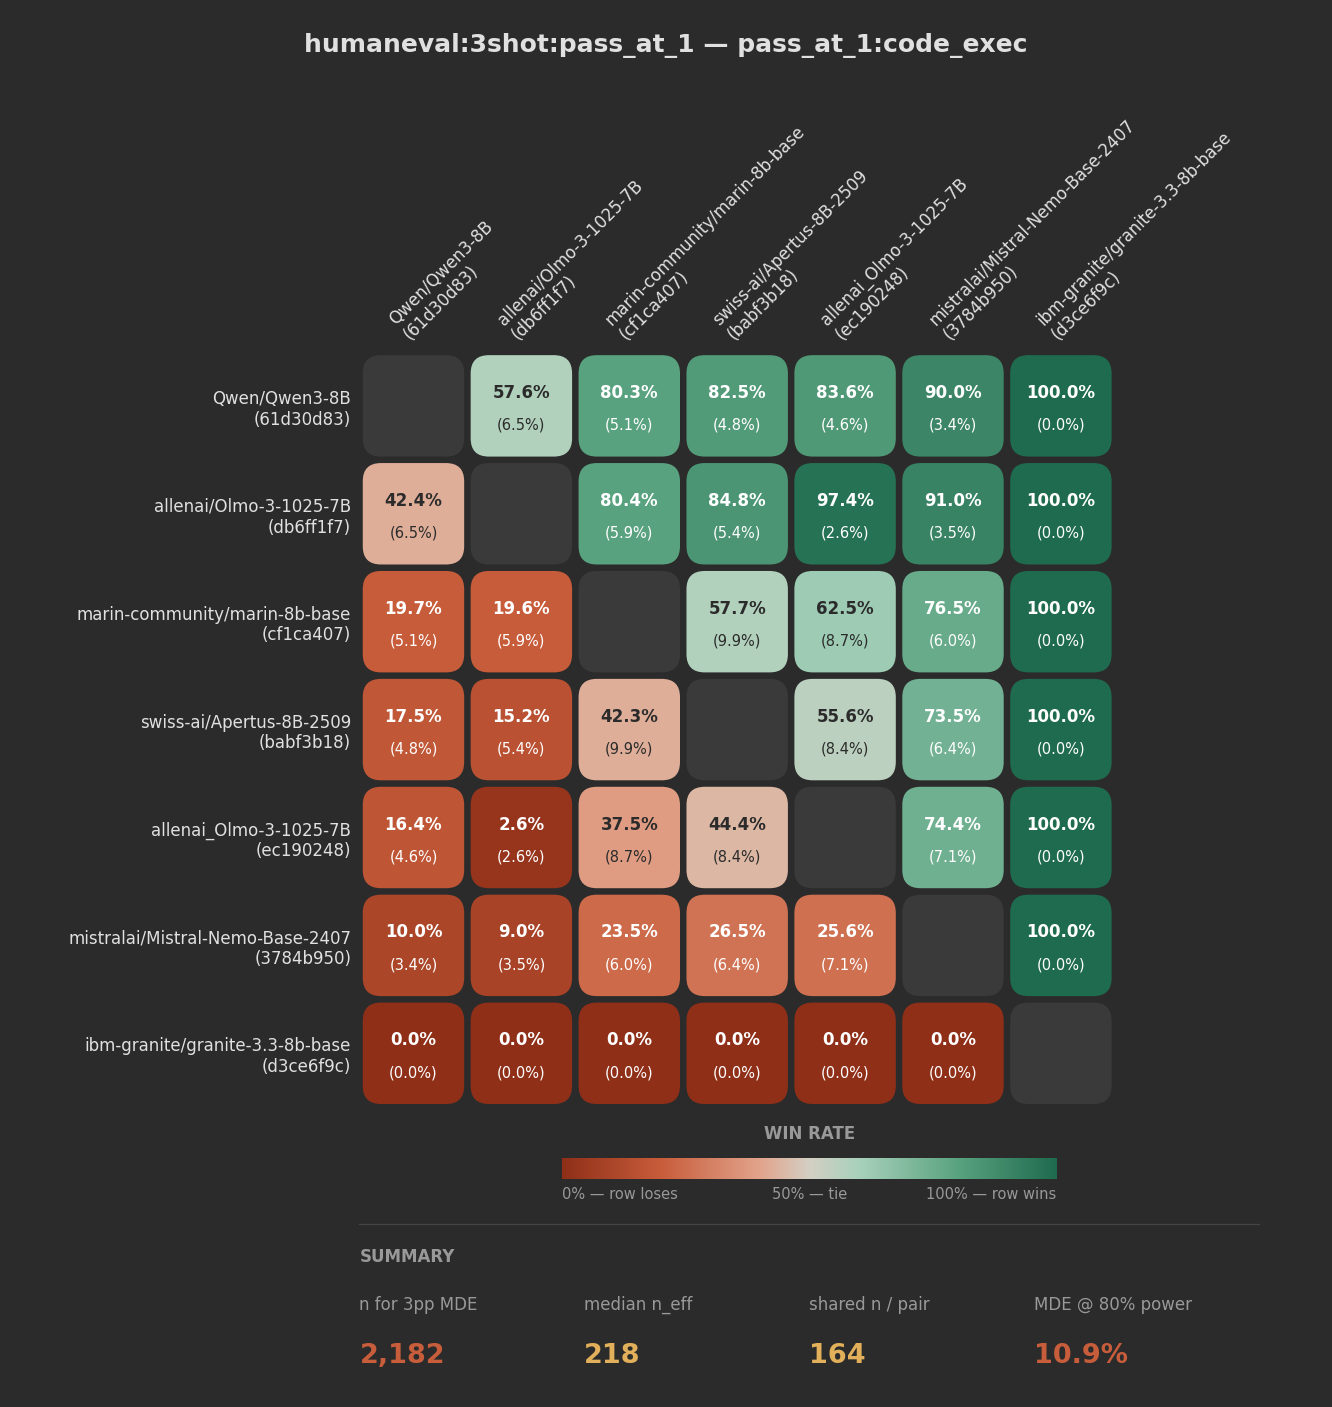
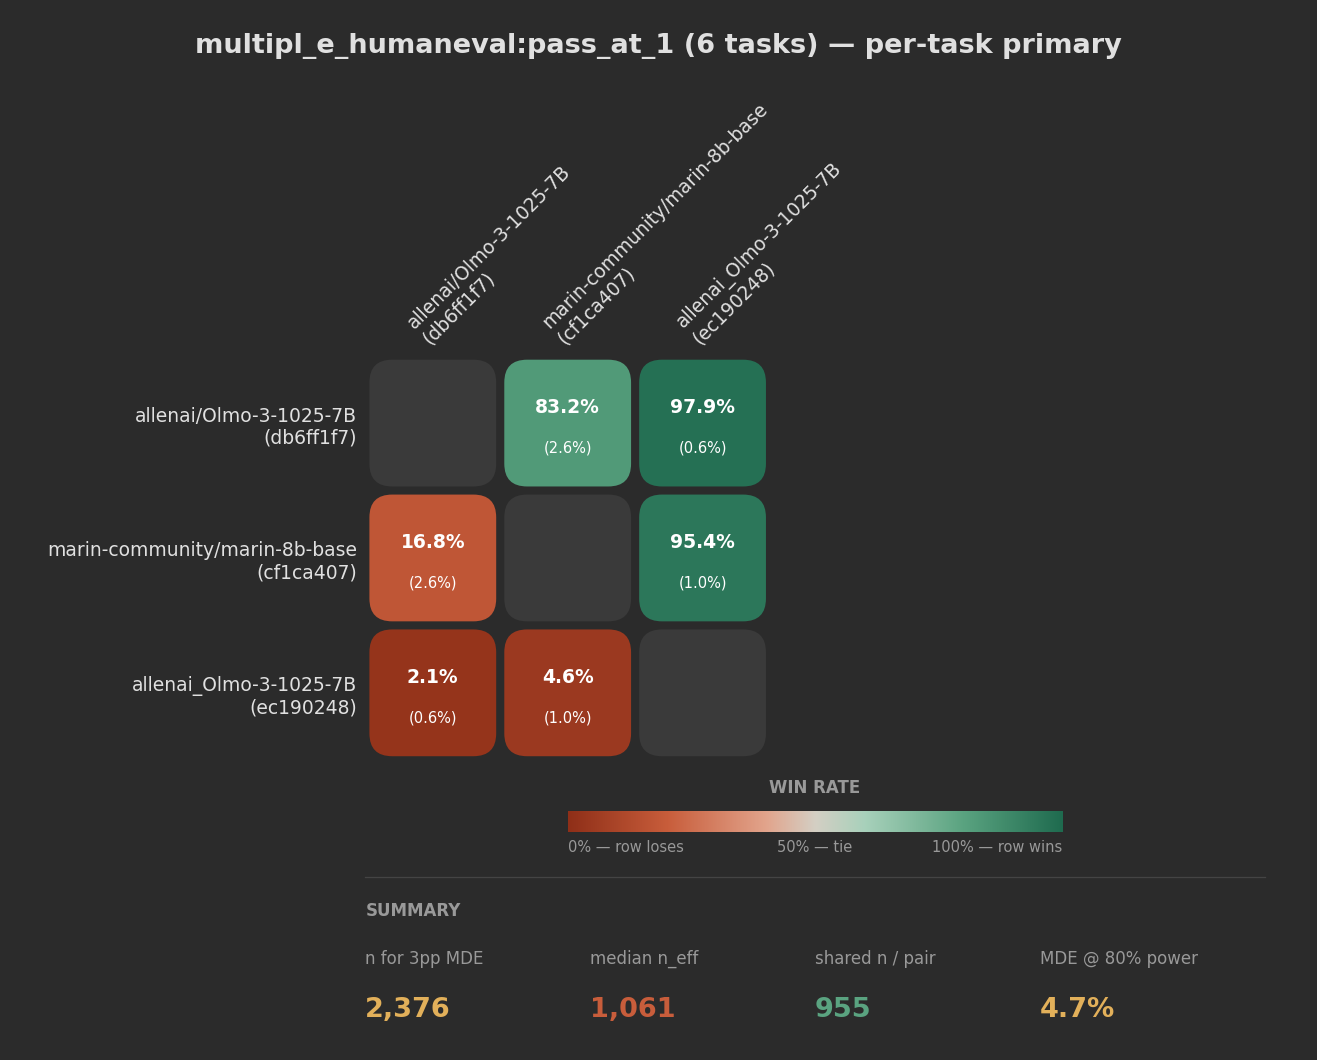
Tweaks

diff --git a/src/olmo_eval/cli/results/pairwise.py b/src/olmo_eval/cli/results/pairwise.py
@@ -137,7 +137,7 @@ def pairwise(
 
     from olmo_eval.analysis.pairwise import compute_pairwise
 
-    with console.status("[bold blue]Computing pairwise comparison..."):
+    with console.status("[bold blue]Computing pairwise results..."):
         db = get_database_session(db_host, db_port, db_name, db_user, db_password)
         try:
             with db.session() as session:

diff --git a/src/olmo_eval/analysis/README.md b/src/olmo_eval/analysis/README.md
@@ -98,51 +98,66 @@ correlation between models.
   would.
 - Tiers: good ≥ 2× shared n, ok ≥ 1.2×, bad < 1.2×.
 
-## Why pool across a suite?
+## Why pool up to the parent suite?
 
-Running the same models on just `humaneval:3shot:pass_at_1` alone gives the
-following matrix:
+`multipl_e:pass_at_1` is a hierarchical suite — under the hood it aggregates
+several sub-suites (HumanEval variants, MBPP variants, and translations of
+each into other languages). You can scope the pairwise to any level of the
+hierarchy. Here's the same models scoped to just the HumanEval-family
+sub-suite:
 
-![Pairwise heatmap for HumanEval 3-shot pass@1 alone](pairwise_heatmap_example.png)
+```
+olmo-eval results pairwise \
+  -G olmo-eval-sandboxfusion \
+  -S multipl_e_humaneval:pass_at_1
+```
+
+![Pairwise heatmap for the HumanEval sub-suite](pairwise_heatmap_example.png)
 
 ```
 n for 3pp MDE    median n_eff    shared n / pair    MDE @ 80% power
-    2,182            218              164               10.9%
+    2,376          1,061              955               4.7%
 ```
 
-Same models, same code-eval task family — but **everything collapses**:
+The sub-suite is a strict subset of the parent's instances, so its stats
+collapse compared to the top-level suite:
 
-| Footer stat      | HumanEval alone | MultiPL-E suite |
-| ---------------- | --------------: | --------------: |
-| shared n / pair  |             164 |           2,313 |
-| MDE @ 80% power  |      10.9% (🔴) |       2.3% (🟢) |
-| median n_eff     |             218 |           6,806 |
-| n for 3pp MDE    |           2,182 |   1,418 (within reach) |
+| Footer stat      | Sub-suite (HumanEval family) | Parent suite (MultiPL-E) |
+| ---------------- | ---------------------------: | -----------------------: |
+| shared n / pair  |                          955 |                    2,313 |
+| MDE @ 80% power  |                    4.7% (🟡) |                2.3% (🟢) |
+| median n_eff     |                 1,061 (🔴)   |               6,806 (🟢) |
+| n for 3pp MDE    |      2,376 (🟡, above n)     | 1,418 (🟢, within reach) |
 
-**Concrete example of what this costs you.** Qwen3 vs Olmo-3 on HumanEval
-alone reads `57.6% (6.5%)` → 95% CI `[44.6%, 70.6%]`, which crosses 50% —
-you can't claim Qwen is better. On MultiPL-E the same comparison reads
-`71.0% (2.4%)` → 95% CI `[66.2%, 75.8%]` — decisively Qwen.
+**Two things to notice:**
 
-**Why it works.** A single 164-instance task leaves the MDE far above the
-gaps you actually care about (1-10pp), so most matrix cells are in noise
-territory. Pooling across related tasks pushes the `shared n` up linearly
-and the MDE down as `1/√n` — and because `n_eff / shared n` often improves
-too (MultiPL-E: ~2.9×, HumanEval alone: ~1.3×), the effective precision
-gain is more than the raw sample-size ratio would suggest.
+1. **MDE is yellow, not red.** The sub-suite can resolve ~5pp gaps, so the
+   decisive cells in its matrix (16.8%, 83.2%, 95.4%, etc.) are still
+   trustworthy. But a hypothetical 3pp gap between two similar models would
+   vanish in the noise.
+2. **`n_eff` is *below* `shared n`.** `1,061 < 955` is fine but the ratio
+   is close to 1 — the paired design is not buying meaningful precision at
+   this level. That happens when models disagree on per-question difficulty
+   across the sub-suite's tasks, so `Var(d)` is close to `σ_A² + σ_B²`.
+   Scoping up to the parent suite fixes this dramatically: `n_eff / shared n`
+   jumps from ≈1.1× (sub-suite) to ≈2.9× (parent suite) because the extra
+   tasks give the paired structure something to work with.
 
-**How to do it.** Use `-S <suite>` instead of `-t <task>`. Browse registered
-suites and their coverage in your group with:
+**Takeaway.** The finer-grained the slice, the noisier the matrix. Prefer
+the highest-level suite that still measures the capability you care about.
+The parent suite is always at least as informative as any of its children
+(same model comparisons, strictly more instances, usually better `n_eff`).
+
+**How to explore the hierarchy:**
 
 ```
-olmo-eval results suites -G <your-group>
-olmo-eval results group <your-group>
+olmo-eval results suites -G <your-group>   # suites with DB coverage
+olmo-eval results group <your-group>       # models + tasks + suites
 ```
 
-**What to pool.** Pool tasks that measure the same underlying capability
-(e.g. code generation across languages, math across subjects). Don't pool
-unrelated tasks — a suite mixing math and dialogue will pool noise and
-muddle the interpretation.
+**What NOT to pool.** Resist the urge to pool tasks that measure different
+capabilities (e.g. math + dialogue). That inflates `shared n` without
+improving signal — and can actually hurt `n_eff` by driving `Var(d)` up.
 
 ## How cell SE and footer stats differ
 